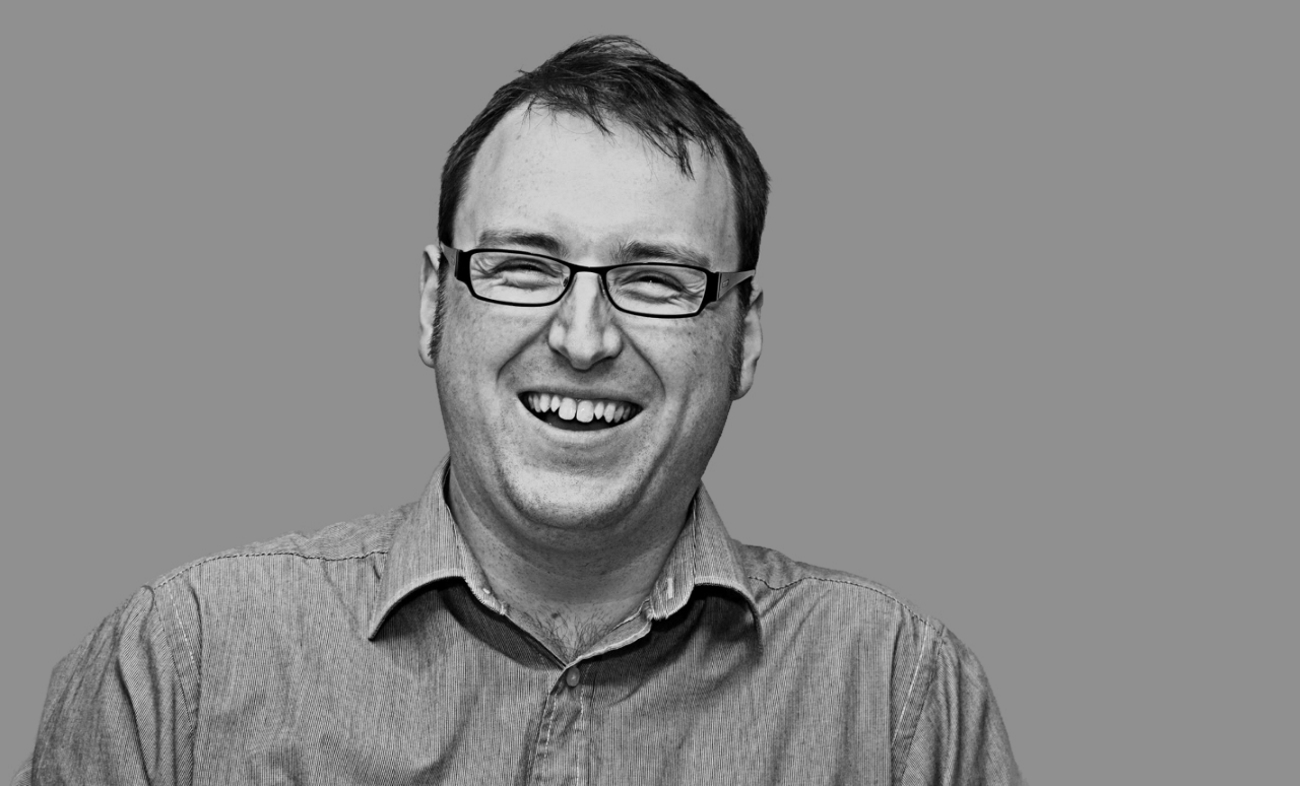
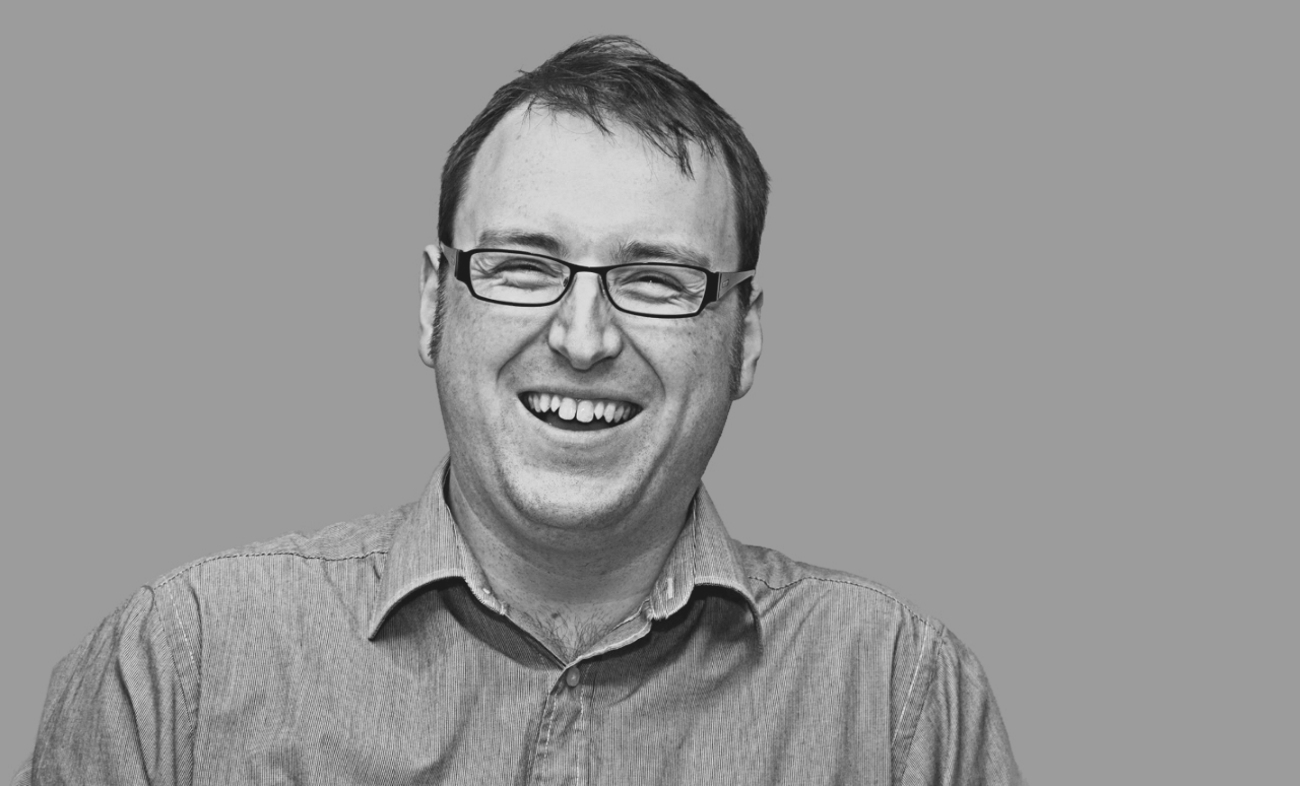
Updated background image

diff --git a/css/main.css b/css/main.css
@@ -23,7 +23,7 @@ body {
 }
 
 body.profile2 {
-	background-color: #909090;
+	background-color: #9C9C9C;
 	background-image: url(../img/profile_2.jpg);
 }
 
